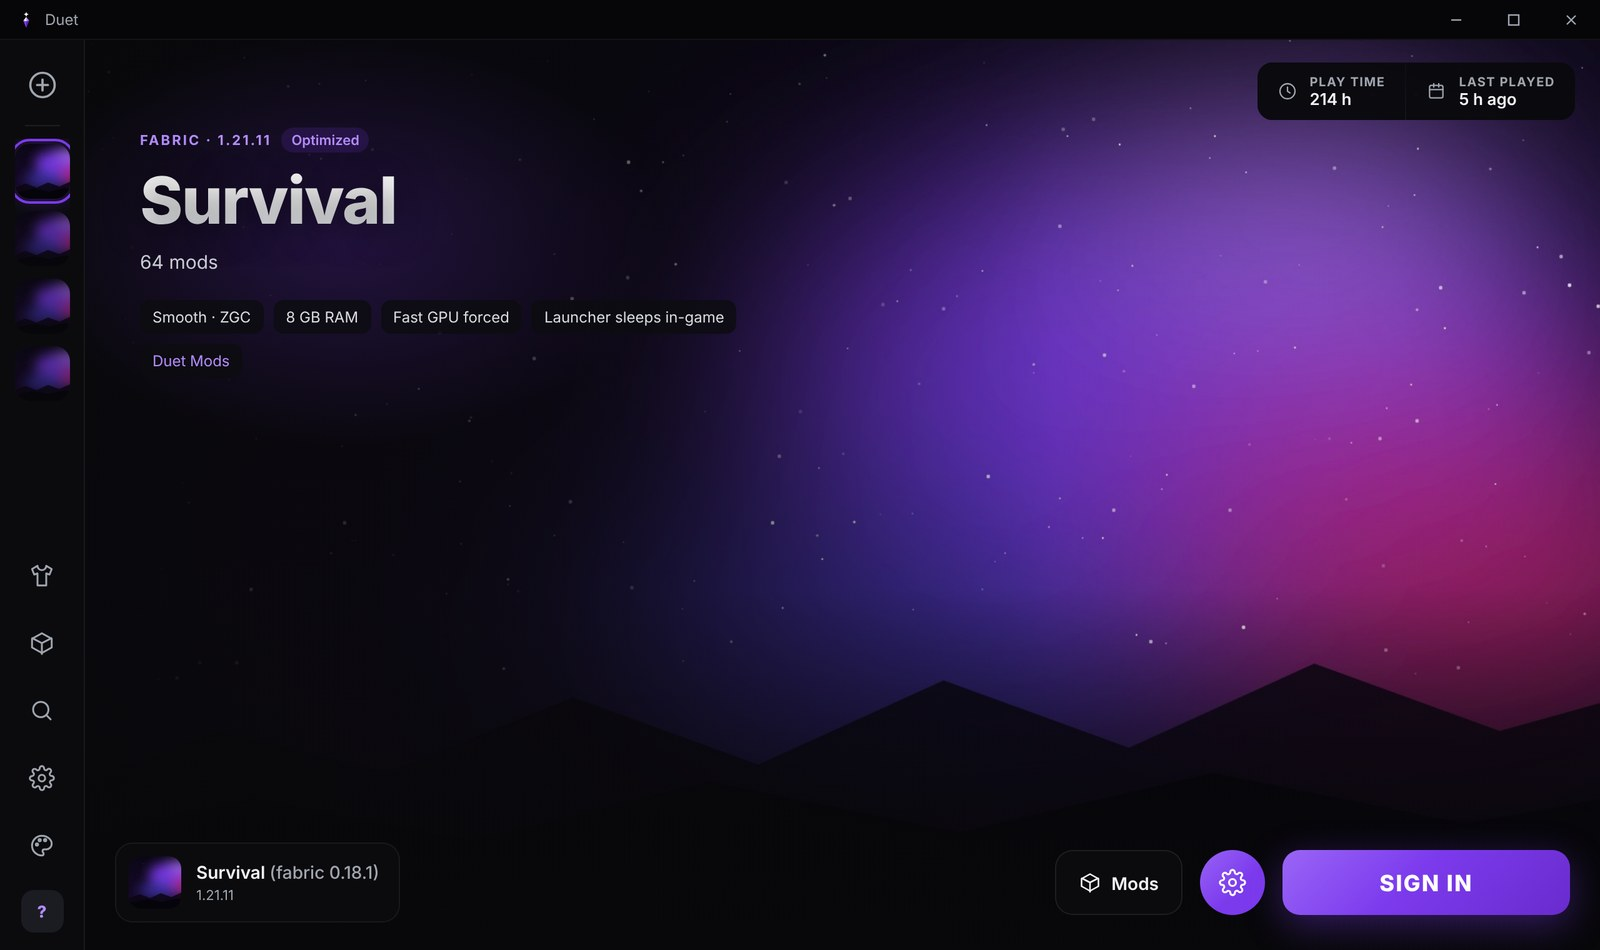
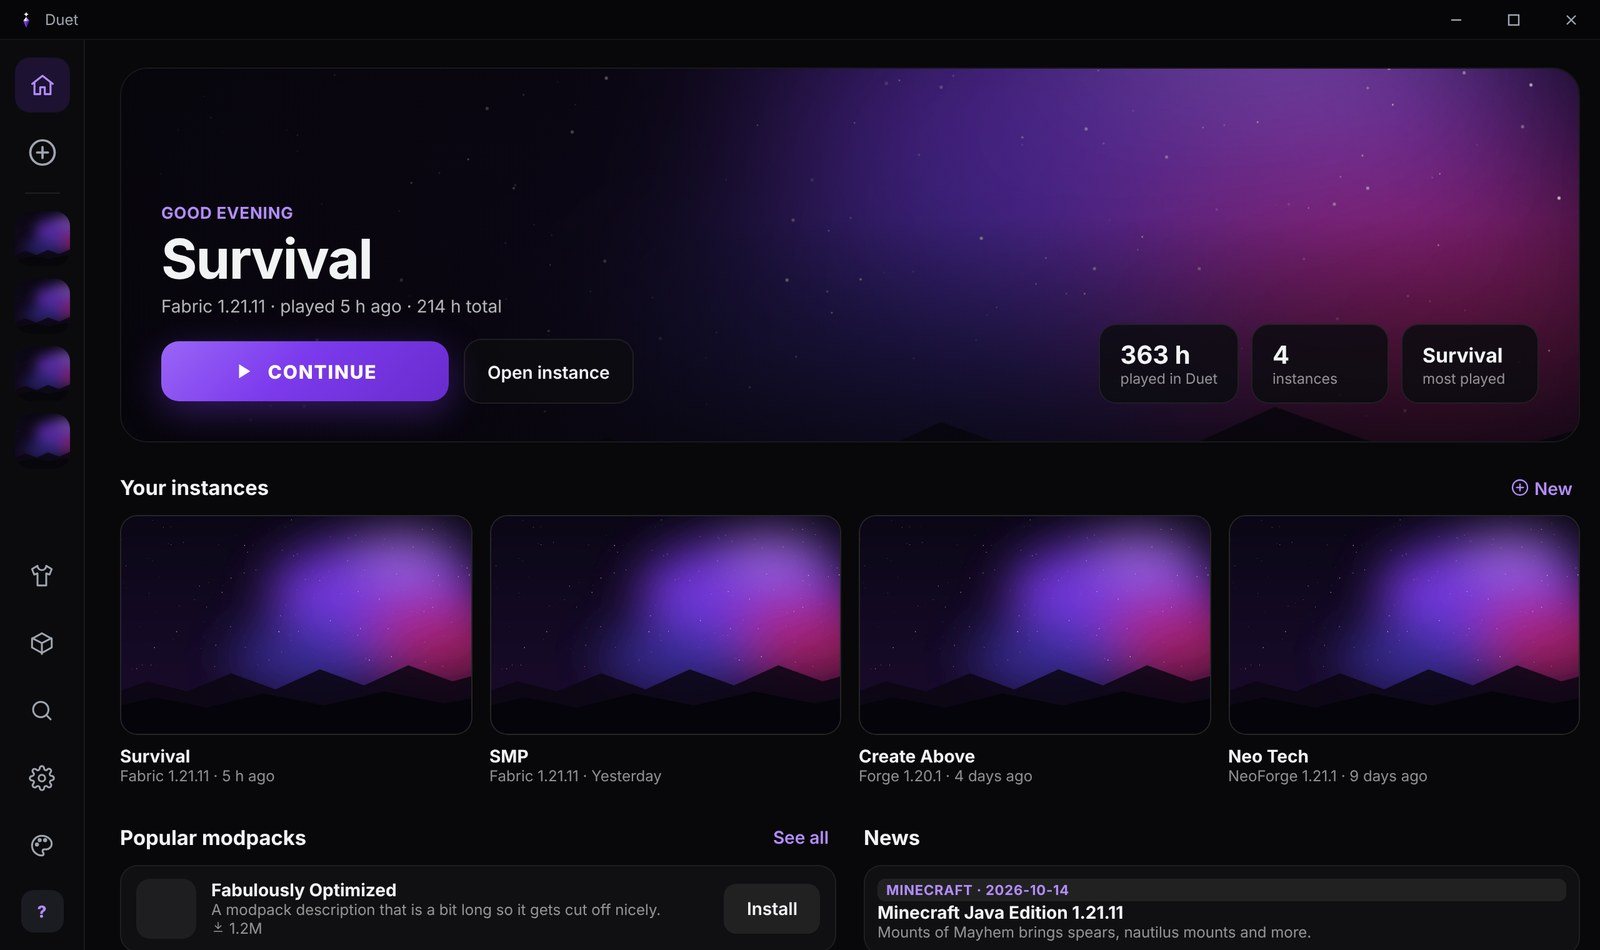
Add download website
Claude-Session: https://claude.ai/code/session_019PJaeuPpXAg5U9wngcC8yc

diff --git a/docs/index.html b/docs/index.html
@@ -1,0 +1,162 @@
+<!doctype html>
+<html lang="en">
+<head>
+<meta charset="utf-8">
+<meta name="viewport" content="width=device-width, initial-scale=1">
+<title>Duet — the fast, good-looking Minecraft launcher</title>
+<meta name="description" content="Duet is a free Minecraft: Java Edition launcher for Windows and Linux. Fabric, Quilt, Forge and NeoForge, one-click modpacks, built-in speed mods, themes and skins.">
+<meta property="og:title" content="Duet — Minecraft launcher">
+<meta property="og:description" content="Fast, good-looking and easy. Modpacks in one click, built-in speed mods, themes, skins.">
+<meta property="og:image" content="https://kadirg47.github.io/duet/banner.jpg">
+<meta name="theme-color" content="#7c3aed">
+<link rel="icon" href="emblem-512.png">
+<link rel="preconnect" href="https://fonts.googleapis.com"><link rel="preconnect" href="https://fonts.gstatic.com" crossorigin>
+<link href="https://fonts.googleapis.com/css2?family=Inter:wght@400;500;600;700;800&display=swap" rel="stylesheet">
+<style>
+:root{--bg:#07060b;--panel:rgba(255,255,255,.04);--line:rgba(255,255,255,.08);--text:#ecebf3;--muted:#a19db3;--accent:#7c3aed;--accent2:#c4a8ff;--pink:#e879f9}
+*{box-sizing:border-box}
+html{scroll-behavior:smooth}
+body{margin:0;background:var(--bg);color:var(--text);font-family:Inter,system-ui,sans-serif;line-height:1.55;-webkit-font-smoothing:antialiased}
+a{color:inherit}
+.wrap{max-width:1140px;margin:0 auto;padding:0 24px}
+nav{position:sticky;top:0;z-index:10;backdrop-filter:blur(14px);background:rgba(7,6,11,.7);border-bottom:1px solid var(--line)}
+nav .wrap{display:flex;align-items:center;gap:18px;height:64px}
+nav .brand{display:flex;align-items:center;gap:10px;font-weight:800;font-size:19px;text-decoration:none}
+nav .brand img{width:34px;height:34px}
+nav .links{margin-left:auto;display:flex;gap:22px;font-size:14.5px;color:var(--muted)}
+nav .links a{text-decoration:none}nav .links a:hover{color:var(--text)}
+.hero{position:relative;overflow:hidden;padding:88px 0 70px}
+.hero::before{content:"";position:absolute;inset:-20% -10% auto;height:120%;background:radial-gradient(ellipse 60% 50% at 70% 30%,rgba(124,58,237,.38),transparent 70%),radial-gradient(ellipse 40% 40% at 90% 60%,rgba(232,121,249,.22),transparent 70%);pointer-events:none}
+.hero .wrap{position:relative;display:grid;grid-template-columns:1.1fr .9fr;gap:40px;align-items:center}
+.eyebrow{display:inline-flex;gap:8px;align-items:center;font-size:13px;font-weight:600;color:var(--accent2);background:rgba(124,58,237,.14);border:1px solid rgba(124,58,237,.35);padding:6px 12px;border-radius:999px}
+h1{font-size:clamp(44px,7vw,84px);line-height:1;letter-spacing:-3px;margin:20px 0 18px;font-weight:800;background:linear-gradient(180deg,#fff,#d6c6ff);-webkit-background-clip:text;background-clip:text;color:transparent}
+.lead{font-size:20px;color:var(--muted);max-width:540px;margin:0 0 30px}
+.cta{display:flex;gap:12px;flex-wrap:wrap;align-items:center}
+.btn{display:inline-flex;align-items:center;gap:10px;padding:15px 24px;border-radius:14px;font-weight:700;font-size:16px;text-decoration:none;border:1px solid var(--line);background:var(--panel);transition:transform .15s,background .15s}
+.btn:hover{transform:translateY(-1px);background:rgba(255,255,255,.08)}
+.btn.primary{background:linear-gradient(135deg,#8b5cf6,#6d28d9);border-color:transparent;box-shadow:0 10px 30px rgba(124,58,237,.45)}
+.btn.primary:hover{background:linear-gradient(135deg,#9d6bff,#7c3aed)}
+.btn svg{width:20px;height:20px}
+.small{font-size:13px;color:var(--muted);margin-top:14px}
+.small a{color:var(--accent2)}
+.emblem{width:100%;max-width:440px;justify-self:center;filter:drop-shadow(0 30px 60px rgba(124,58,237,.45));animation:float 7s ease-in-out infinite}
+@keyframes float{50%{transform:translateY(-12px)}}
+@media (prefers-reduced-motion:reduce){.emblem{animation:none}}
+.shot{margin:10px auto 0;max-width:1100px;border-radius:18px;overflow:hidden;border:1px solid var(--line);box-shadow:0 40px 100px rgba(0,0,0,.6)}
+.shot img{display:block;width:100%}
+section{padding:80px 0}
+h2{font-size:clamp(30px,4vw,44px);letter-spacing:-1.2px;margin:0 0 12px}
+.sub{color:var(--muted);font-size:18px;max-width:640px;margin:0 0 40px}
+.grid{display:grid;grid-template-columns:repeat(3,1fr);gap:16px}
+.card{background:var(--panel);border:1px solid var(--line);border-radius:18px;padding:24px}
+.card .ic{width:44px;height:44px;border-radius:12px;display:grid;place-items:center;background:rgba(124,58,237,.16);color:var(--accent2);margin-bottom:14px}
+.card .ic svg{width:22px;height:22px}
+.card h3{margin:0 0 6px;font-size:18px}
+.card p{margin:0;color:var(--muted);font-size:15px}
+.duo{display:grid;grid-template-columns:1fr 1fr;gap:16px;margin-top:16px}
+.duo img{width:100%;border-radius:14px;border:1px solid var(--line);display:block}
+.dl{display:grid;grid-template-columns:repeat(3,1fr);gap:16px}
+.dl .card{display:flex;flex-direction:column;gap:6px}
+.dl .card .btn{margin-top:14px;justify-content:center;padding:12px 18px;font-size:15px}
+.dl .card.rec{border-color:rgba(124,58,237,.6);background:linear-gradient(180deg,rgba(124,58,237,.14),rgba(255,255,255,.03))}
+.tag{font-size:11.5px;font-weight:700;letter-spacing:.5px;text-transform:uppercase;color:var(--accent2)}
+details{background:var(--panel);border:1px solid var(--line);border-radius:14px;padding:16px 20px;margin-bottom:10px}
+summary{cursor:pointer;font-weight:600}
+details p{color:var(--muted);margin:10px 0 0}
+code{background:rgba(255,255,255,.07);padding:2px 6px;border-radius:6px;font-size:13.5px}
+footer{border-top:1px solid var(--line);padding:36px 0 50px;color:var(--muted);font-size:13.5px;text-align:center}
+footer img{width:44px;opacity:.9}
+footer .legal{font-size:11.5px;letter-spacing:.3px;margin-top:6px;opacity:.75}
+@media (max-width:900px){.hero .wrap{grid-template-columns:1fr}.emblem{max-width:280px;order:-1}.grid,.dl{grid-template-columns:1fr 1fr}nav .links{display:none}}
+@media (max-width:600px){.grid,.dl,.duo{grid-template-columns:1fr}.hero{padding:50px 0}.lead{font-size:17px}}
+</style>
+</head>
+<body>
+<nav><div class="wrap">
+  <a class="brand" href="#"><img src="emblem-512.png" alt="">Duet</a>
+  <div class="links"><a href="#features">Features</a><a href="#download">Download</a><a href="#faq">FAQ</a><a href="https://github.com/KadirG47/duet">GitHub</a></div>
+</div></nav>
+
+<header class="hero"><div class="wrap">
+  <div>
+    <span class="eyebrow" id="ver">Free · Windows &amp; Linux</span>
+    <h1>Duet</h1>
+    <p class="lead">The fast, good-looking Minecraft launcher. Modpacks in one click, built-in speed mods, themes and skins, and it updates itself.</p>
+    <div class="cta">
+      <a class="btn primary" id="main-dl" href="https://github.com/KadirG47/duet/releases/latest">
+        <svg viewBox="0 0 24 24" fill="none" stroke="currentColor" stroke-width="2.2" stroke-linecap="round" stroke-linejoin="round"><path d="M12 4v11M7 10l5 5 5-5M5 20h14"/></svg>
+        <span id="main-dl-text">Download Duet</span>
+      </a>
+      <a class="btn" href="#features">See what's inside</a>
+    </div>
+    <div class="small" id="other">Also for <a href="#download">Linux and Windows</a>.</div>
+  </div>
+  <img class="emblem" src="emblem-512.png" alt="Duet emblem">
+</div>
+<div class="wrap"><div class="shot"><img src="home.jpg" alt="Duet home screen"></div></div>
+</header>
+
+<section id="features"><div class="wrap">
+  <h2>Everything you need, nothing in the way</h2>
+  <p class="sub">Built for players who just want to play — and for the ones who like to tweak everything.</p>
+  <div class="grid">
+    <div class="card"><div class="ic"><svg viewBox="0 0 24 24" fill="none" stroke="currentColor" stroke-width="2" stroke-linecap="round" stroke-linejoin="round"><path d="M21 16V8l-9-5-9 5v8l9 5z"/><path d="M3.3 7.5L12 12l8.7-4.5M12 22V12"/></svg></div><h3>Every mod loader</h3><p>Fabric, Quilt, Forge and NeoForge. Duet installs the loader and the right Java for you.</p></div>
+    <div class="card"><div class="ic"><svg viewBox="0 0 24 24" fill="none" stroke="currentColor" stroke-width="2" stroke-linecap="round" stroke-linejoin="round"><path d="M12 4v11M7 10l5 5 5-5M5 20h14"/></svg></div><h3>Modpacks in one click</h3><p>Browse Modrinth's modpacks or drop in a .mrpack. Minecraft, mods and configs are set up for you.</p></div>
+    <div class="card"><div class="ic"><svg viewBox="0 0 24 24" fill="none" stroke="currentColor" stroke-width="2" stroke-linecap="round" stroke-linejoin="round"><path d="M13 2L4 14h7l-1 8 9-12h-7z"/></svg></div><h3>Built for FPS</h3><p>Tuned Java profiles and built-in speed mods like Sodium and Lithium, with no FPS cap and VSync off on new instances.</p></div>
+    <div class="card"><div class="ic"><svg viewBox="0 0 24 24" fill="none" stroke="currentColor" stroke-width="2" stroke-linecap="round" stroke-linejoin="round"><circle cx="12" cy="12" r="9"/><path d="M3 12h18M12 3a14 14 0 0 1 0 18M12 3a14 14 0 0 0 0 18"/></svg></div><h3>See further</h3><p>Turn on Far view for 50+ chunk render distance with Voxy or Distant Horizons — one switch.</p></div>
+    <div class="card"><div class="ic"><svg viewBox="0 0 24 24" fill="none" stroke="currentColor" stroke-width="2" stroke-linecap="round" stroke-linejoin="round"><path d="M8 3l-5 3 2 5 3-1v11h8V10l3 1 2-5-5-3a4 4 0 0 1-8 0z"/></svg></div><h3>Skins &amp; capes</h3><p>A 3D skin preview, your own skin library, copy any player's skin and switch capes in a click.</p></div>
+    <div class="card"><div class="ic"><svg viewBox="0 0 24 24" fill="none" stroke="currentColor" stroke-width="2" stroke-linecap="round" stroke-linejoin="round"><circle cx="12" cy="12" r="9"/><path d="M12 7v5l3 2"/></svg></div><h3>Crash doctor</h3><p>When the game crashes, Duet tells you why in plain words and fixes it — update, install or turn off the right mod.</p></div>
+    <div class="card"><div class="ic"><svg viewBox="0 0 24 24" fill="none" stroke="currentColor" stroke-width="2" stroke-linecap="round" stroke-linejoin="round"><path d="M12 3a9 9 0 1 0 9 9c0-.6-.5-1-1-1h-3a2 2 0 0 1-2-2V6c0-.6-.4-1-1-1"/><circle cx="7.5" cy="10.5" r="1"/><circle cx="10" cy="7" r="1"/><circle cx="8" cy="15" r="1"/></svg></div><h3>Themes that celebrate</h3><p>Seven colour themes plus seasonal ones for Halloween, Christmas, New Year and more. Video backgrounds and music.</p></div>
+    <div class="card"><div class="ic"><svg viewBox="0 0 24 24" fill="none" stroke="currentColor" stroke-width="2" stroke-linecap="round" stroke-linejoin="round"><path d="M5 8h14M5 12h14M5 16h9"/></svg></div><h3>15 languages</h3><p>English, 中文, हिन्दी, Español, العربية, Français, বাংলা, Português, Русский, Indonesia, اردو, Deutsch, 日本語, Tiếng Việt, Türkçe.</p></div>
+    <div class="card"><div class="ic"><svg viewBox="0 0 24 24" fill="none" stroke="currentColor" stroke-width="2" stroke-linecap="round" stroke-linejoin="round"><path d="M21 12a9 9 0 1 1-3-6.7L21 8"/><path d="M21 3v5h-5"/></svg></div><h3>Always up to date</h3><p>Duet updates itself with one click. Discord status shows what you're playing.</p></div>
+  </div>
+  <div class="duo"><img src="performance.jpg" alt="Performance settings"><img src="halloween.jpg" alt="Halloween theme"></div>
+</div></section>
+
+<section id="download"><div class="wrap">
+  <h2>Download</h2>
+  <p class="sub">Free. Pick your system — after that, Duet keeps itself updated.</p>
+  <div class="dl">
+    <div class="card" data-os="win"><span class="tag">Windows 10 / 11</span><h3>Installer</h3><p>Installs in seconds, updates automatically.</p><a class="btn primary" data-asset="x64-setup.exe" href="https://github.com/KadirG47/duet/releases/latest">Download .exe</a></div>
+    <div class="card" data-os="linux"><span class="tag">Linux · any distro</span><h3>AppImage</h3><p>Runs everywhere, updates automatically. Make it executable, then open it.</p><a class="btn" data-asset="amd64.AppImage" href="https://github.com/KadirG47/duet/releases/latest">Download AppImage</a></div>
+    <div class="card" data-os="deb"><span class="tag">Ubuntu · Debian · Mint</span><h3>.deb package</h3><p>Installs with your package manager, codecs included.</p><a class="btn" data-asset="amd64.deb" href="https://github.com/KadirG47/duet/releases/latest">Download .deb</a></div>
+  </div>
+  <p class="small">All versions and release notes: <a href="https://github.com/KadirG47/duet/releases">GitHub releases</a>.</p>
+</div></section>
+
+<section id="faq"><div class="wrap">
+  <h2>Questions</h2>
+  <details><summary>Windows says "Windows protected your PC"</summary><p>Duet isn't code-signed yet, so SmartScreen warns about new apps. Click <b>More info → Run anyway</b>. Official downloads are only on this site and on GitHub.</p></details>
+  <details><summary>Do I need a Minecraft account?</summary><p>Yes — you sign in with the Microsoft account that owns Minecraft: Java Edition, on Microsoft's own page. Duet never sees your password. Microsoft sign-in is currently waiting for Mojang's approval for new launchers.</p></details>
+  <details><summary>Can I keep my Modrinth App instances?</summary><p>Yes. Duet imports your Modrinth App profiles without moving any files, so both launchers share them.</p></details>
+  <details><summary>A video background doesn't play on Linux</summary><p>Use a <code>.webm</code> video, or install the codecs: <code>sudo apt install gstreamer1.0-libav gstreamer1.0-plugins-good</code>.</p></details>
+</div></section>
+
+<footer><div class="wrap">
+  <img src="emblem-512.png" alt=""><br>
+  © 2026 Hydrate (KadirG47). All rights reserved. · <a href="https://github.com/KadirG47/duet">GitHub</a>
+  <div class="legal">NOT AN OFFICIAL MINECRAFT PRODUCT. NOT APPROVED BY OR ASSOCIATED WITH MOJANG OR MICROSOFT.</div>
+</div></footer>
+
+<script>
+// Point the buttons at the real files of the newest release, and pick the right one for this computer.
+(async () => {
+  const ua = navigator.userAgent;
+  const isLinux = /Linux/i.test(ua) && !/Android/i.test(ua);
+  try {
+    const r = await fetch("https://api.github.com/repos/KadirG47/duet/releases/latest");
+    if (!r.ok) return;
+    const rel = await r.json();
+    document.getElementById("ver").textContent = "Version " + rel.tag_name.replace(/^v/, "") + " · Windows & Linux";
+    const url = (end) => (rel.assets.find((a) => a.name.endsWith(end)) || {}).browser_download_url;
+    document.querySelectorAll("[data-asset]").forEach((a) => { const u = url(a.dataset.asset); if (u) a.href = u; });
+    const main = document.getElementById("main-dl");
+    const u = url(isLinux ? "amd64.AppImage" : "x64-setup.exe");
+    if (u) { main.href = u; document.getElementById("main-dl-text").textContent = isLinux ? "Download for Linux" : "Download for Windows"; }
+    document.getElementById("other").innerHTML = isLinux ? 'Also for <a href="#download">Windows and Debian/Ubuntu</a>.' : 'Also for <a href="#download">Linux</a>.';
+    document.querySelector(isLinux ? '[data-os="linux"]' : '[data-os="win"]').classList.add("rec");
+  } catch { /* keep the links to the releases page */ }
+})();
+</script>
+</body>
+</html>
